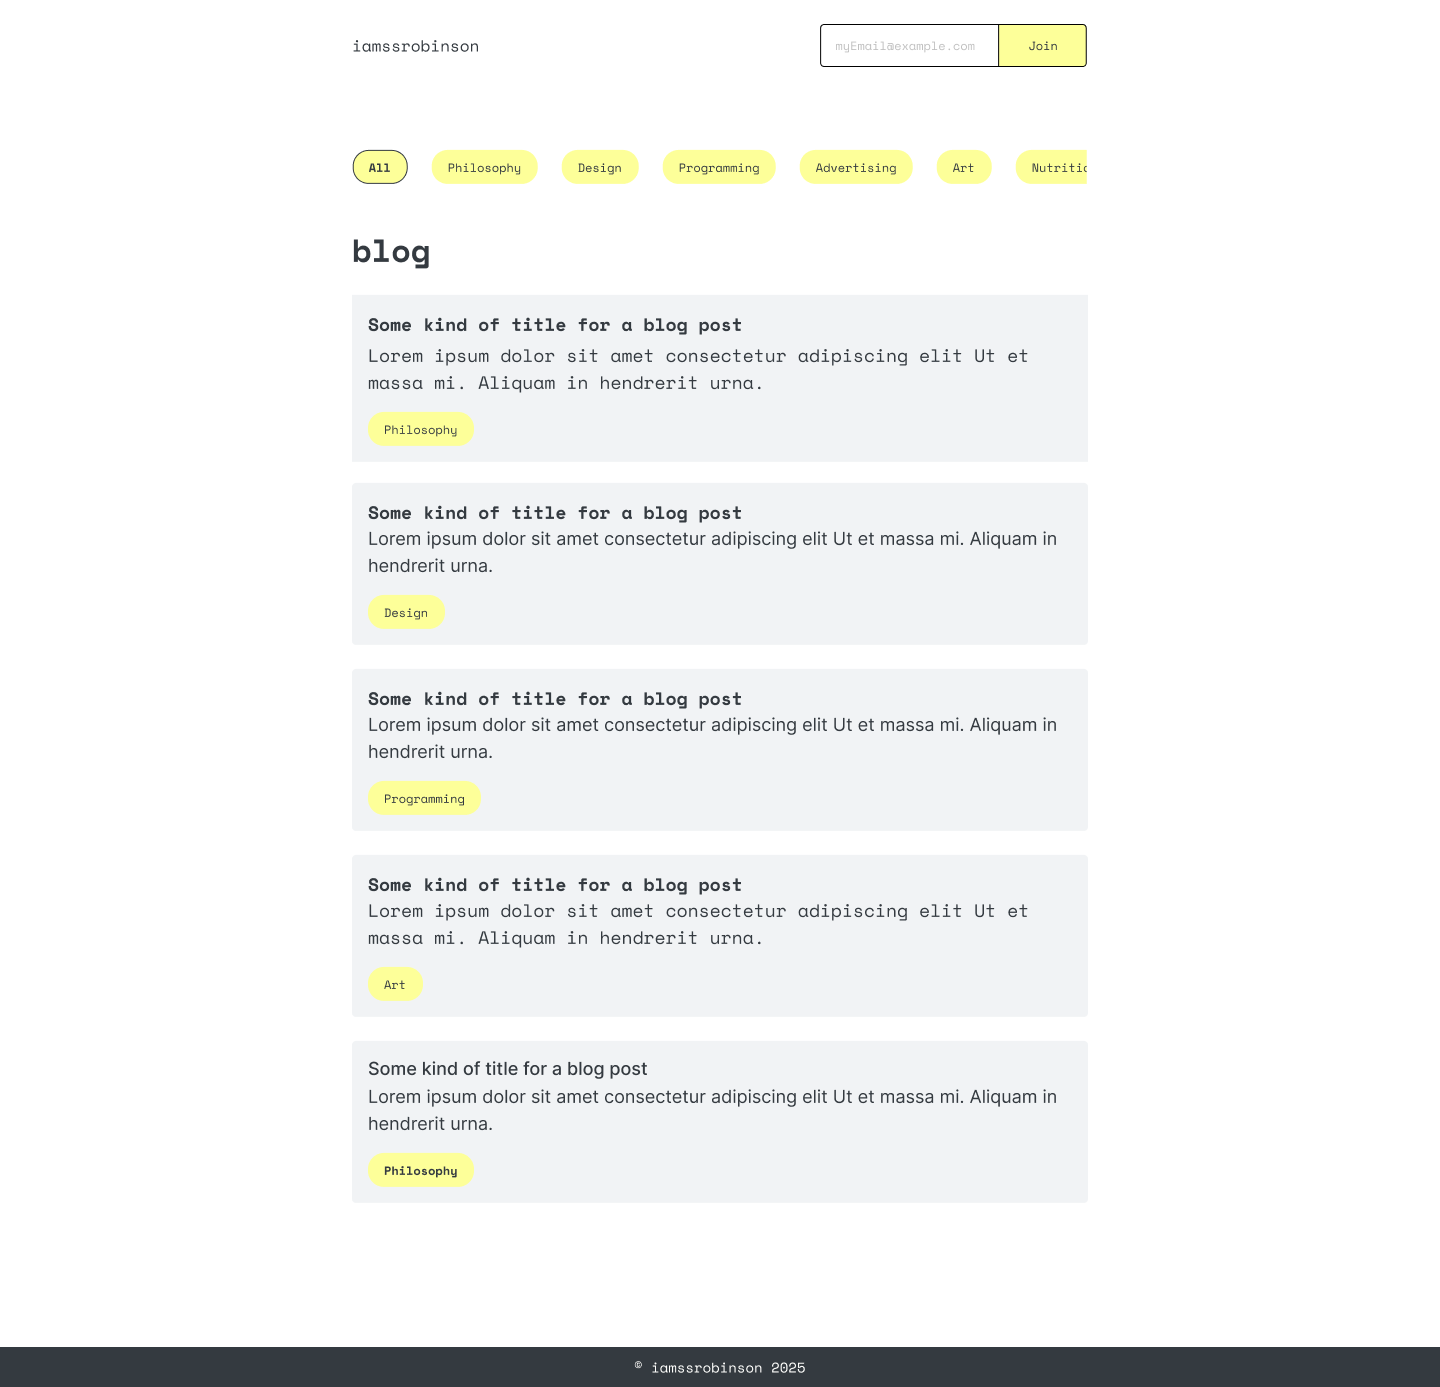
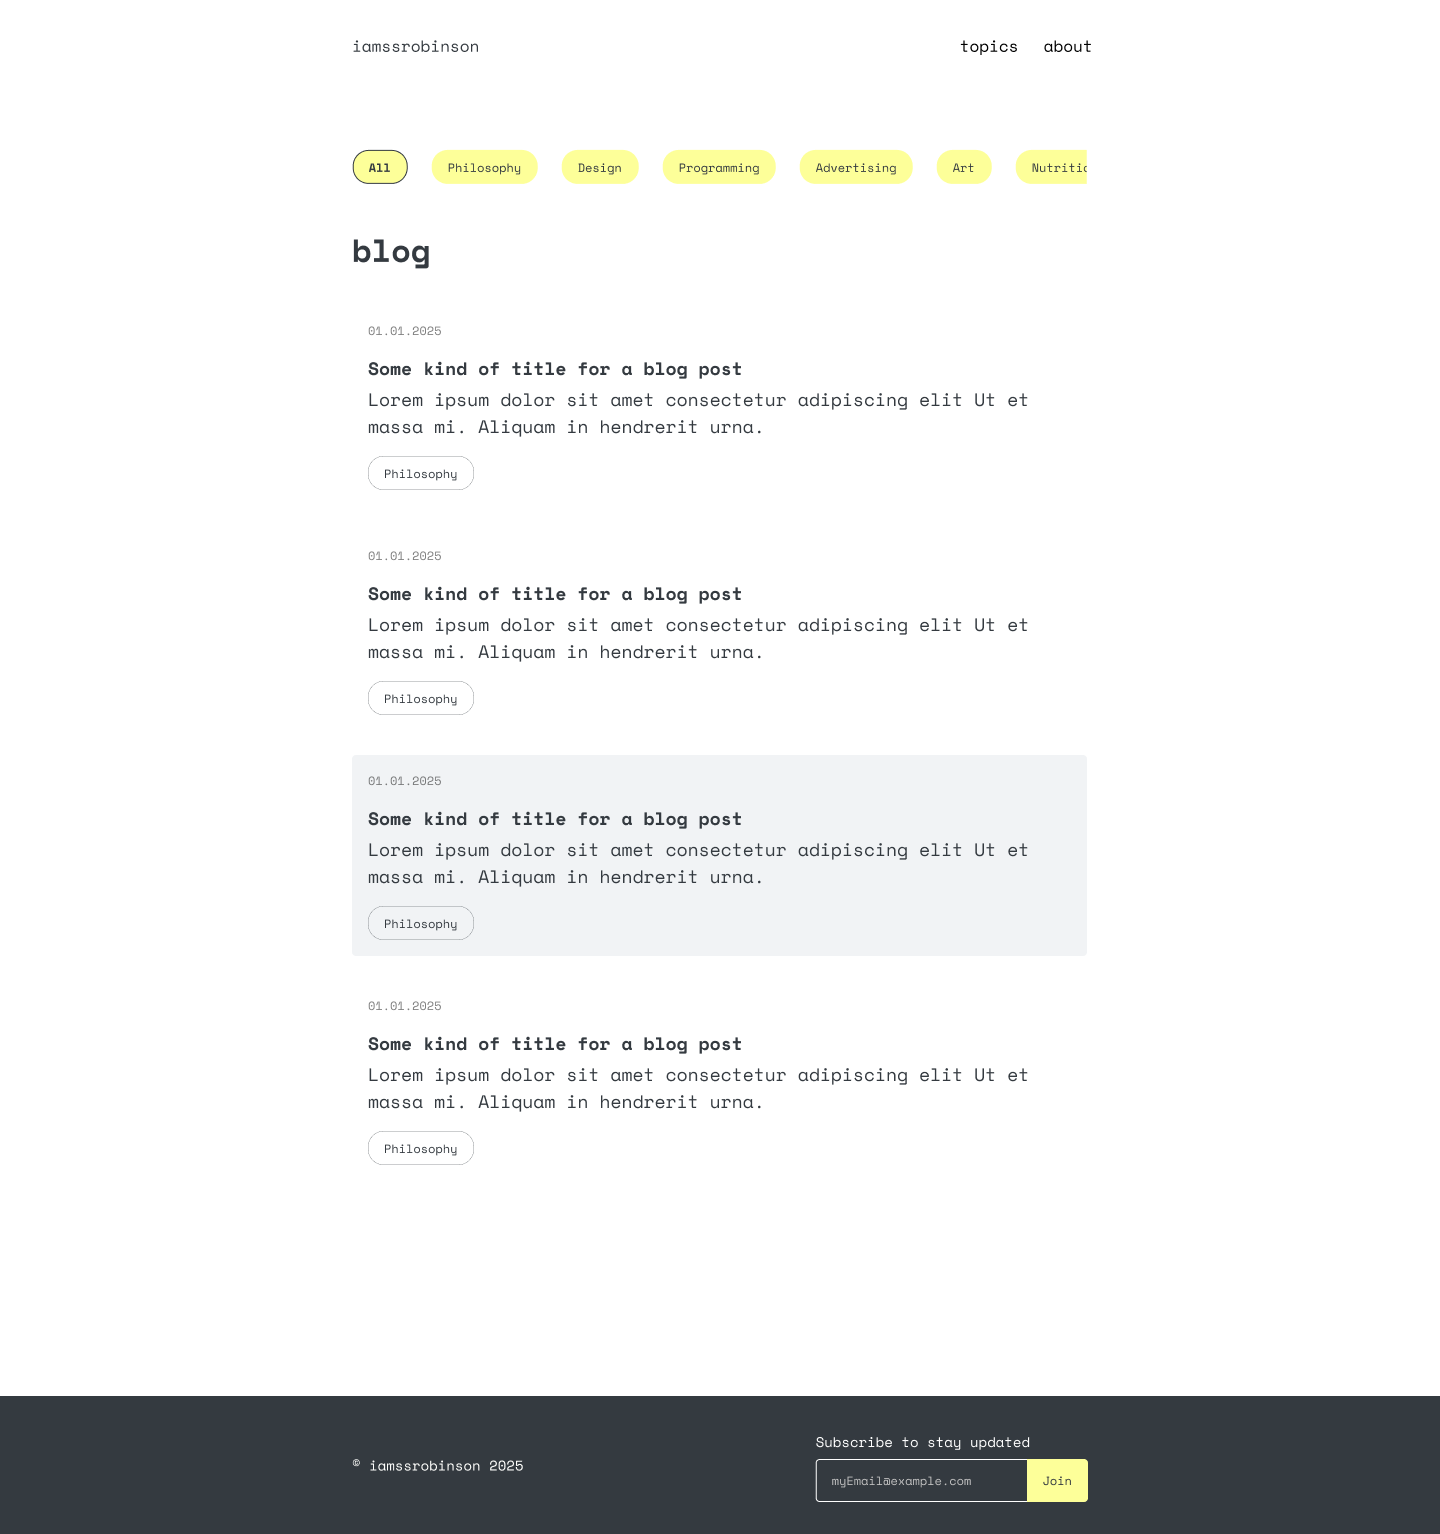
Remove component styles from html and imported into styles.css inside assets dir for cleaner seperation of concerns.

diff --git a/06_project_blog/index.html b/06_project_blog/index.html
@@ -6,14 +6,10 @@
     <meta name="viewport" content="width=device-width, initial-scale=1.0">
     <title>iamssobinson</title>
     <link rel="stylesheet" href="./assets/styles/styles.css">
-    <link rel="stylesheet" href="./assets/styles/mediaQueries.css">
+    <!-- <link rel="stylesheet" href="./assets/styles/mediaQueries.css"> -->
     <link rel="preconnect" href="https://fonts.googleapis.com">
     <link rel="preconnect" href="https://fonts.gstatic.com" crossorigin>
     <link href="https://fonts.googleapis.com/css2?family=Inter:ital,opsz,wght@0,14..32,100..900;1,14..32,100..900&family=Space+Mono:ital,wght@0,400;0,700;1,400;1,700&display=swap" rel="stylesheet">
-    <link rel="stylesheet" href="./components/Header/Header.css">
-    <link rel="stylesheet" href="./components/Logo/Logo.css">
-    <link rel="stylesheet" href="./components/SubscribeForm/SubscribeForm.css">
-    <link rel="stylesheet" href="./components/Menu/Menu.css">
 </head>
 <body>
     <div class="body-container">

diff --git a/06_project_blog/assets/styles/styles.css b/06_project_blog/assets/styles/styles.css
@@ -1,3 +1,9 @@
+@import './mediaQueries.css';
+@import '../../components/Header/Header.css';
+@import '../../components/Logo/Logo.css';
+@import '../../components/SubscribeForm/SubscribeForm.css';
+@import '../../components/Menu/Menu.css';
+
 :root {
     font-size: 62.5%;
 
